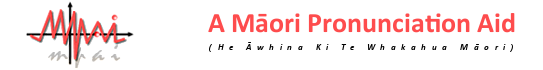
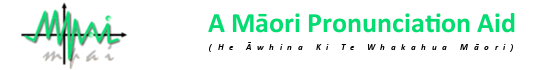
Changed MPAiWords Color Scheme to Green

Changed region(s): [[0.3831, 0.1714, 0.9724, 0.4857], [0.0295, 0.0286, 0.2652, 0.9714]]

diff --git a/MPAiWords/MPAi/Forms/AudioPlayer.Designer.cs b/MPAiWords/MPAi/Forms/AudioPlayer.Designer.cs
@@ -282,7 +282,7 @@ namespace MPAi.Forms
             this.progressBar1.BackColor = System.Drawing.Color.WhiteSmoke;
             this.tableLayoutPanel1.SetColumnSpan(this.progressBar1, 5);
             this.progressBar1.Dock = System.Windows.Forms.DockStyle.Bottom;
-            this.progressBar1.ForeColor = System.Drawing.Color.FromArgb(((int)(((byte)(250)))), ((int)(((byte)(74)))), ((int)(((byte)(74)))));
+            this.progressBar1.ForeColor = System.Drawing.Color.FromArgb(0xFF, 0x03, 0xDC, 0x71);
             this.progressBar1.Location = new System.Drawing.Point(127, 39);
             this.progressBar1.Name = "progressBar1";
             this.progressBar1.Size = new System.Drawing.Size(304, 23);
@@ -595,7 +595,8 @@ namespace MPAi.Forms
             // 
             this.recordingProgressBar.Anchor = ((System.Windows.Forms.AnchorStyles)(((System.Windows.Forms.AnchorStyles.Bottom | System.Windows.Forms.AnchorStyles.Left) 
             | System.Windows.Forms.AnchorStyles.Right)));
-            this.recordingProgressBar.BackColor = System.Drawing.Color.FromArgb(0xFF, 0xA0, 0x00, 0x00);
+            this.recordingProgressBar.BackColor = System.Drawing.Color.WhiteSmoke;
+            this.recordingProgressBar.ForeColor = System.Drawing.Color.FromArgb(0xFF, 0x03, 0xDC, 0x71);
             this.recordingProgressBar.Location = new System.Drawing.Point(104, 38);
             this.recordingProgressBar.Name = "recordingProgressBar";
             this.recordingProgressBar.Size = new System.Drawing.Size(361, 25);

diff --git a/MPAiWords/MPAi/Components/MPAiButton.cs b/MPAiWords/MPAi/Components/MPAiButton.cs
@@ -15,11 +15,11 @@ namespace MPAi.Components
         {
             if (this.Enabled)
             {
-                this.BackColor = System.Drawing.Color.FromArgb(0xFF, 0xA0, 0x00, 0x00);
+                this.BackColor = System.Drawing.Color.FromArgb(0xFF, 0x03, 0xDC, 0x71);
             }
             else
             {
-                this.BackColor = System.Drawing.Color.FromArgb(0xFF, 0xA0, 0x30, 0x30);
+                this.BackColor = System.Drawing.Color.FromArgb(0xFF, 0x43, 0xEC, 0xA1);
             }
         }
 
@@ -28,11 +28,6 @@ namespace MPAi.Components
             container.Add(this);
 
             InitializeComponent();
-
-            this.FlatStyle = System.Windows.Forms.FlatStyle.Flat;
-            this.ForeColor = System.Drawing.Color.White;
-            this.BackColor = System.Drawing.Color.FromArgb(0xFF, 0xA0, 0x00, 0x00);
-            this.EnabledChanged += MPAiButton_EnabledChanged;
         }
     }
 }

diff --git a/MPAiWords/MPAi/Forms/SpeechRecognitionTest.Designer.cs b/MPAiWords/MPAi/Forms/SpeechRecognitionTest.Designer.cs
@@ -198,7 +198,8 @@ namespace MPAi.Forms
             // recordingProgressBar
             // 
             this.recordingProgressBar.Anchor = ((System.Windows.Forms.AnchorStyles)((System.Windows.Forms.AnchorStyles.Left | System.Windows.Forms.AnchorStyles.Right)));
-            this.recordingProgressBar.ForeColor = System.Drawing.Color.FromArgb(((int)(((byte)(250)))), ((int)(((byte)(74)))), ((int)(((byte)(74)))));
+            this.recordingProgressBar.BackColor = System.Drawing.Color.WhiteSmoke;
+            this.recordingProgressBar.ForeColor = System.Drawing.Color.FromArgb(0xFF, 0x03, 0xDC, 0x71);
             this.recordingProgressBar.Location = new System.Drawing.Point(117, 90);
             this.recordingProgressBar.Name = "recordingProgressBar";
             this.recordingProgressBar.Size = new System.Drawing.Size(350, 50);

diff --git a/MPAiWords/MPAi/Components/MPAiComboBox.cs b/MPAiWords/MPAi/Components/MPAiComboBox.cs
@@ -36,7 +36,7 @@ namespace MPAi.Components
             Color colour, highlightColour;
             // Set the colour here.
             colour = Color.White;
-            highlightColour = System.Drawing.Color.FromArgb(0xFF, 0xA0, 0x00, 0x00);
+            highlightColour = System.Drawing.Color.FromArgb(0xFF, 0x03, 0xDC, 0x71);
 
             // If the item is not selected, paint over it with the correct colour
             if (!((e.State & DrawItemState.Selected) == DrawItemState.Selected))

diff --git a/MPAiWords/MPAi/Components/MPAiButton.Designer.cs b/MPAiWords/MPAi/Components/MPAiButton.Designer.cs
@@ -32,7 +32,7 @@
             // 
             // MPAiButton
             // 
-            this.BackColor = System.Drawing.Color.FromArgb(0xFF, 0xA0, 0x00, 0x00);
+            this.BackColor = System.Drawing.Color.FromArgb(0xFF, 0x03, 0xDC, 0x71);
             this.ForeColor = System.Drawing.Color.White;
             this.EnabledChanged += MPAiButton_EnabledChanged;
             this.FlatStyle = System.Windows.Forms.FlatStyle.Flat;
